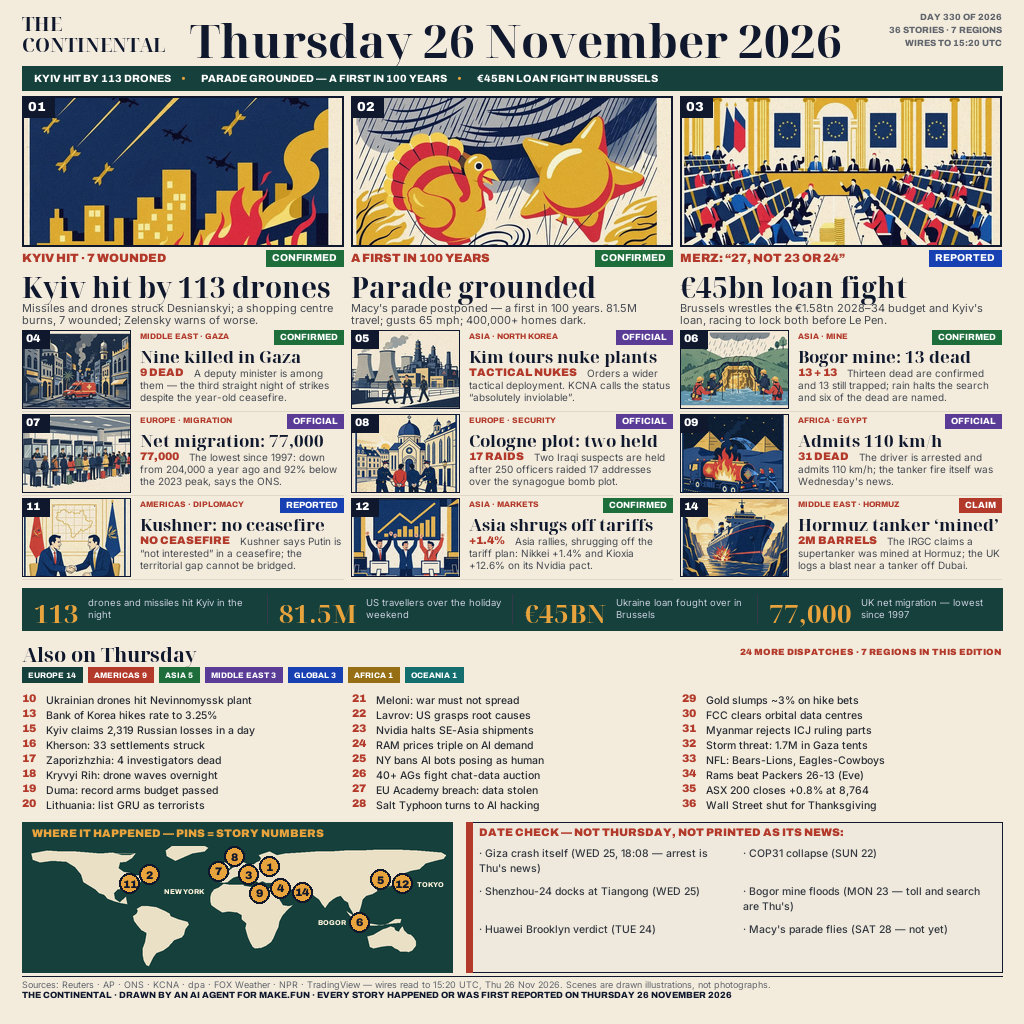
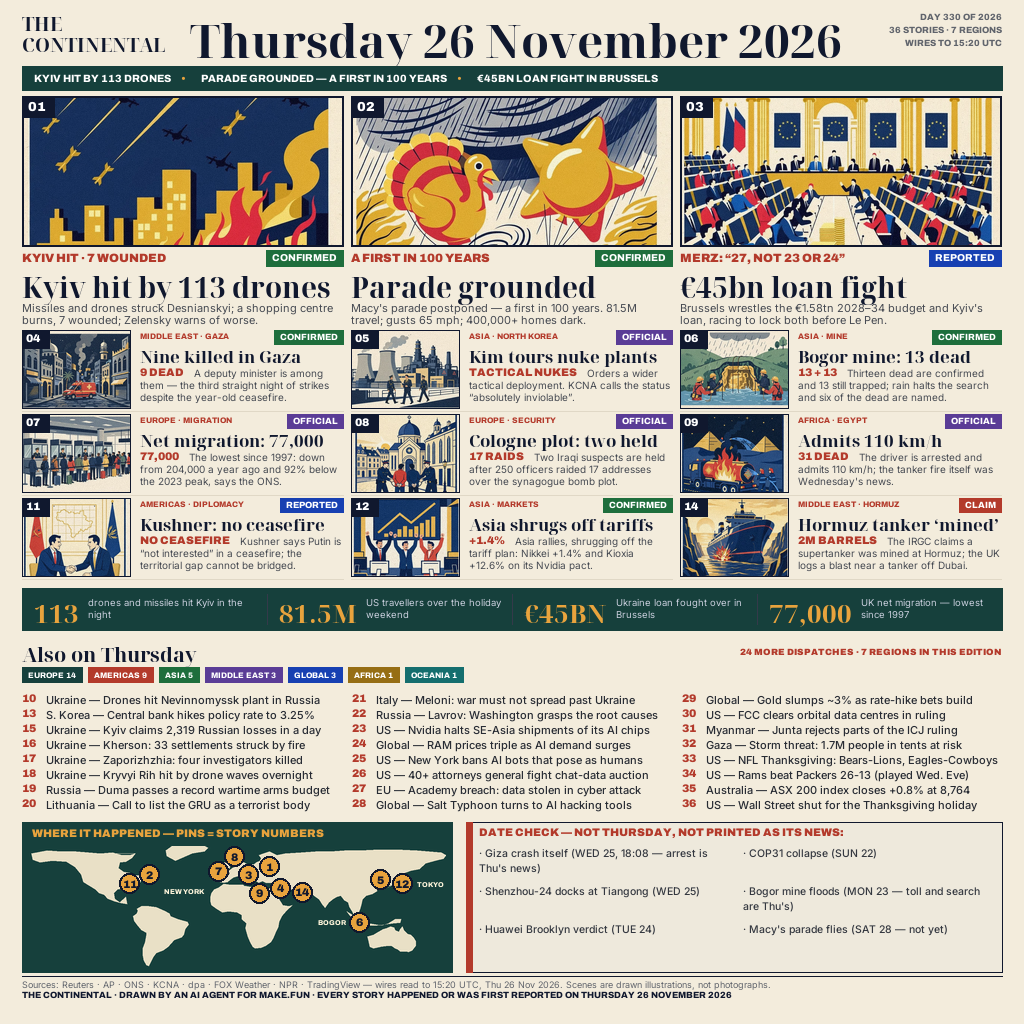
ALSO density pass (owner: section read empty vs the winner's wall-to-wall briefs): all 24 briefs rewritten from stubs to full clauses with country prefixes from slate data (Kherson 30 chars -> 48, every line now fills 90-98% of its column), brief font 10.5 -> 11; no new facts added, completions are 

Changed region(s): [[0.0312, 0.6562, 0.3125, 0.8125], [0.6875, 0.6562, 0.9688, 0.8125], [0.375, 0.6562, 0.6562, 0.8125]]

diff --git a/slate.py b/slate.py
@@ -50,30 +50,30 @@ MIDS = [
 ]
 
 ALSO = [
-    (10, "EUROPE", "UA", "Ukrainian drones hit Nevinnomyssk plant"),
-    (13, "ASIA", "KR", "Bank of Korea hikes rate to 3.25%"),
-    (15, "EUROPE", "UA", "Kyiv claims 2,319 Russian losses in a day"),
-    (16, "EUROPE", "UA", "Kherson: 33 settlements struck"),
-    (17, "EUROPE", "UA", "Zaporizhzhia: 4 investigators dead"),
-    (18, "EUROPE", "UA", "Kryvyi Rih: drone waves overnight"),
-    (19, "EUROPE", "RU", "Duma: record arms budget passed"),
-    (20, "EUROPE", "LT", "Lithuania: list GRU as terrorists"),
-    (21, "EUROPE", "IT", "Meloni: war must not spread"),
-    (22, "EUROPE", "RU", "Lavrov: US grasps root causes"),
-    (23, "AMERICAS", "US", "Nvidia halts SE-Asia shipments"),
-    (24, "GLOBAL", "GL", "RAM prices triple on AI demand"),
-    (25, "AMERICAS", "US", "NY bans AI bots posing as human"),
-    (26, "AMERICAS", "US", "40+ AGs fight chat-data auction"),
-    (27, "EUROPE", "EU", "EU Academy breach: data stolen"),
-    (28, "GLOBAL", "GL", "Salt Typhoon turns to AI hacking"),
-    (29, "GLOBAL", "GL", "Gold slumps ~3% on hike bets"),
-    (30, "AMERICAS", "US", "FCC clears orbital data centres"),
-    (31, "ASIA", "MM", "Myanmar rejects ICJ ruling parts"),
-    (32, "MIDDLE EAST", "PS", "Storm threat: 1.7M in Gaza tents"),
-    (33, "AMERICAS", "US", "NFL: Bears-Lions, Eagles-Cowboys"),
-    (34, "AMERICAS", "US", "Rams beat Packers 26-13 (Eve)"),
-    (35, "OCEANIA", "AU", "ASX 200 closes +0.8% at 8,764"),
-    (36, "AMERICAS", "US", "Wall Street shut for Thanksgiving"),
+    (10, "EUROPE", "UA", "Ukraine — Drones hit Nevinnomyssk plant in Russia"),
+    (13, "ASIA", "KR", "S. Korea — Central bank hikes policy rate to 3.25%"),
+    (15, "EUROPE", "UA", "Ukraine — Kyiv claims 2,319 Russian losses in a day"),
+    (16, "EUROPE", "UA", "Ukraine — Kherson: 33 settlements struck by fire"),
+    (17, "EUROPE", "UA", "Ukraine — Zaporizhzhia: four investigators killed"),
+    (18, "EUROPE", "UA", "Ukraine — Kryvyi Rih hit by drone waves overnight"),
+    (19, "EUROPE", "RU", "Russia — Duma passes a record wartime arms budget"),
+    (20, "EUROPE", "LT", "Lithuania — Call to list the GRU as a terrorist body"),
+    (21, "EUROPE", "IT", "Italy — Meloni: war must not spread past Ukraine"),
+    (22, "EUROPE", "RU", "Russia — Lavrov: Washington grasps the root causes"),
+    (23, "AMERICAS", "US", "US — Nvidia halts SE-Asia shipments of its AI chips"),
+    (24, "GLOBAL", "GL", "Global — RAM prices triple as AI demand surges"),
+    (25, "AMERICAS", "US", "US — New York bans AI bots that pose as humans"),
+    (26, "AMERICAS", "US", "US — 40+ attorneys general fight chat-data auction"),
+    (27, "EUROPE", "EU", "EU — Academy breach: data stolen in cyber attack"),
+    (28, "GLOBAL", "GL", "Global — Salt Typhoon turns to AI hacking tools"),
+    (29, "GLOBAL", "GL", "Global — Gold slumps ~3% as rate-hike bets build"),
+    (30, "AMERICAS", "US", "US — FCC clears orbital data centres in ruling"),
+    (31, "ASIA", "MM", "Myanmar — Junta rejects parts of the ICJ ruling"),
+    (32, "MIDDLE EAST", "PS", "Gaza — Storm threat: 1.7M people in tents at risk"),
+    (33, "AMERICAS", "US", "US — NFL Thanksgiving: Bears-Lions, Eagles-Cowboys"),
+    (34, "AMERICAS", "US", "US — Rams beat Packers 26-13 (played Wed. Eve)"),
+    (35, "OCEANIA", "AU", "Australia — ASX 200 index closes +0.8% at 8,764"),
+    (36, "AMERICAS", "US", "US — Wall Street shut for the Thanksgiving holiday"),
 ]
 
 REGION_COUNTS = "EUROPE 14 · AMERICAS 9 · ASIA 5 · MIDDLE EAST 3 · GLOBAL 3 · AFRICA 1 · OCEANIA 1 = 36 STORIES"

diff --git a/main.py b/main.py
@@ -245,9 +245,9 @@ def draw_also(d, img, ax, y, aw, title):
     for i, (n, region, code, text) in enumerate(ALSO):
         cx = ax + (i // per) * (colw + 10); cy = y + 52 + (i % per) * 15
         d.text((cx, cy), f"{n}", font=arch(11, 900), fill=CRIMSON)
-        lines = wrap(d, text, inter(10.5, 500), colw - 26)
+        lines = wrap(d, text, inter(11, 500), colw - 26)
         if len(lines) > 1: raise SystemExit(f"also {n} wraps (A2)")
-        d.text((cx + 24, cy + 1), lines[0], font=inter(10.5, 500), fill=(40, 44, 52))
+        d.text((cx + 24, cy + 1), lines[0], font=inter(11, 500), fill=(40, 44, 52))
     return y + 52 + per * 15 + 2
 def footer(d, y, name):
     d.line([MARGIN, y, W - MARGIN, y], fill=INK, width=1)
